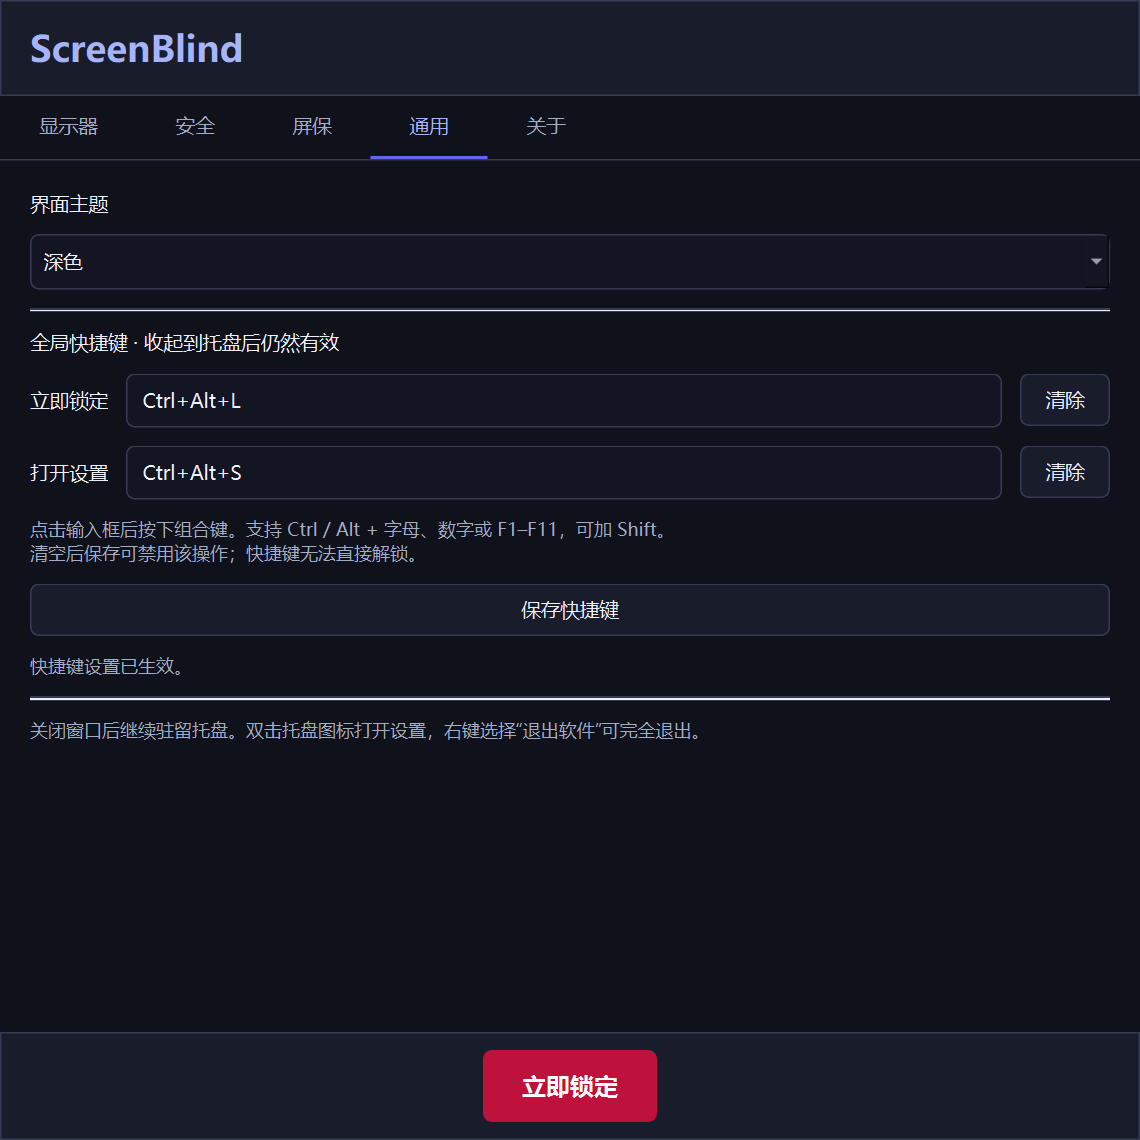
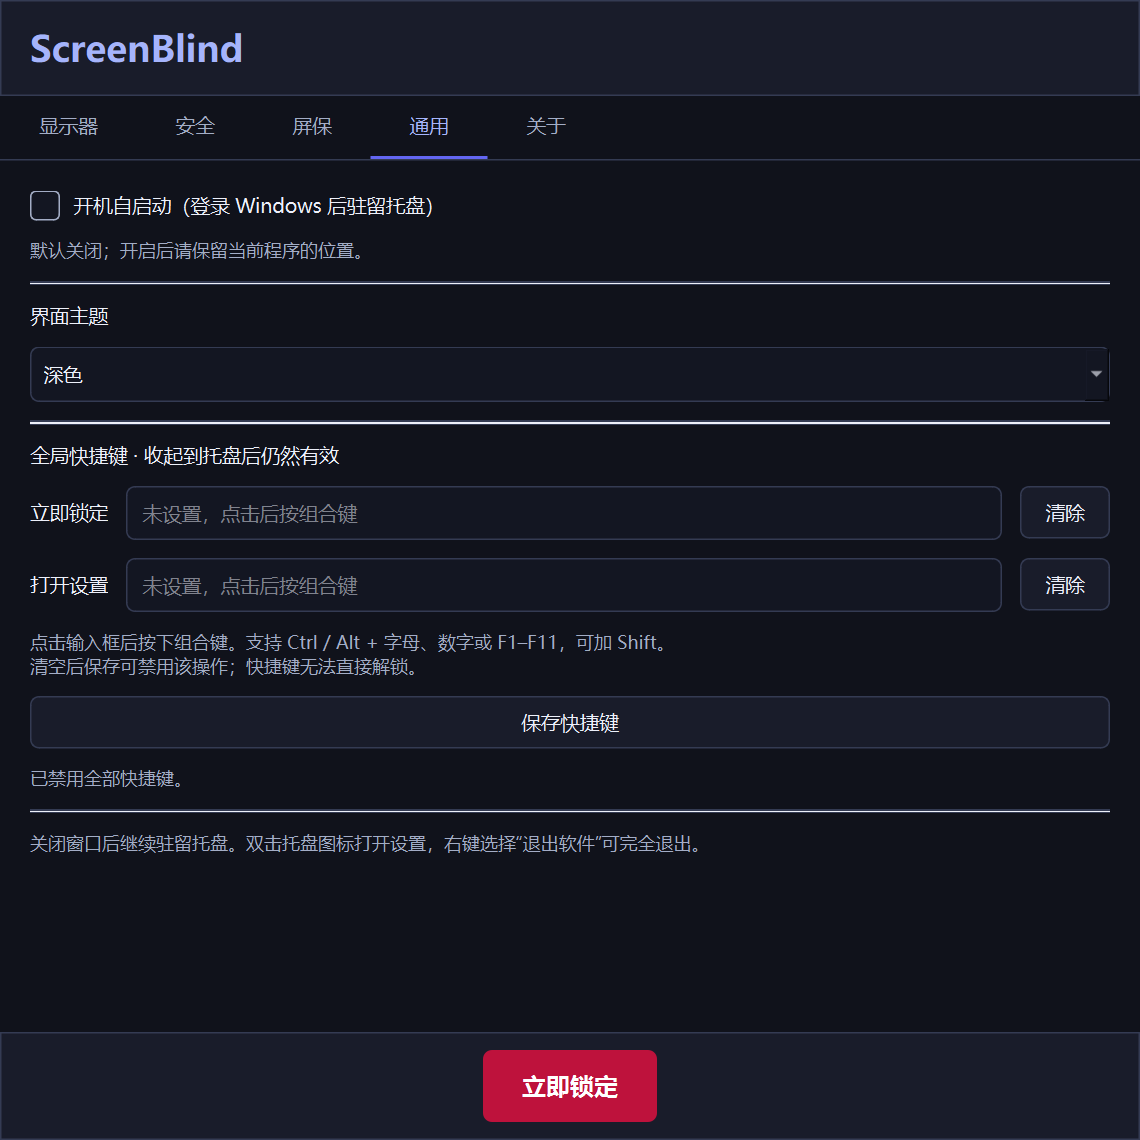
Add opt-in login startup, optional idle screensaver and empty default hotkeys

Changed region(s): [[0.0307, 0.1535, 0.9825, 0.5219], [0.0307, 0.5219, 0.9518, 0.7675]]

diff --git a/tests/test_desktop.py b/tests/test_desktop.py
@@ -4,6 +4,8 @@ import os
 from pathlib import Path
 import tempfile
 import unittest
+import uuid
+import winreg
 from unittest.mock import Mock, patch
 
 os.environ.setdefault('QT_QPA_PLATFORM', 'offscreen')
@@ -16,6 +18,7 @@ import blind
 import hotkeys
 import main
 import settings
+import startup
 from instance import InstanceGuard
 
 APP = QApplication.instance() or QApplication([])
@@ -81,6 +84,8 @@ class WindowTests(unittest.TestCase):
         self.env.start()
         self.hotkeys_patch = patch.object(main, 'GlobalHotkeys')
         self.hotkeys_patch.start()
+        self.startup_patch = patch.object(startup, 'is_enabled', return_value=False)
+        self.startup_patch.start()
         self.window = main.MainWindow()
 
     def tearDown(self):
@@ -89,6 +94,7 @@ class WindowTests(unittest.TestCase):
         self.window.deleteLater()
         APP.sendPostedEvents(None, QEvent.Type.DeferredDelete)
         self.hotkeys_patch.stop()
+        self.startup_patch.stop()
         self.env.stop()
         self.temp.cleanup()
 
@@ -98,6 +104,38 @@ class WindowTests(unittest.TestCase):
         self.assertFalse(self.window.isVisible())
         self.window._on_tray_activated(main.QSystemTrayIcon.ActivationReason.DoubleClick)
         self.assertTrue(self.window.isVisible())
+
+    def test_startup_and_hotkeys_are_disabled_by_default(self):
+        self.assertFalse(self.window._startup_cb.isChecked())
+        for edit in self.window._shortcut_edits.values():
+            self.assertTrue(edit.keySequence().isEmpty())
+        self.window._hotkeys.configure.assert_called_once_with({'lock': '', 'settings': ''})
+
+    def test_startup_toggle_and_failure_restore_checkbox(self):
+        with patch.object(startup, 'set_enabled') as write:
+            self.window._startup_cb.setChecked(True)
+            write.assert_called_once_with(True)
+        with patch.object(startup, 'set_enabled', side_effect=PermissionError), \
+             patch.object(main.QMessageBox, 'warning') as warning:
+            self.window._startup_cb.setChecked(False)
+            self.assertTrue(self.window._startup_cb.isChecked())
+            warning.assert_called_once()
+
+    def test_idle_screensaver_toggle_preserves_timeout_and_persists(self):
+        tab = self.window._screensaver_tab
+        tab._timeout_spin.setValue(300)
+        tab._idle_enabled.setChecked(False)
+        self.assertFalse(tab._timeout_spin.isEnabled())
+        self.assertFalse(settings.load()['screensaver_enabled'])
+        self.assertEqual(settings.load()['idle_timeout'], 300)
+        restored = main.ScreensaverTab(settings.load())
+        self.assertFalse(restored._idle_enabled.isChecked())
+        self.assertFalse(restored._timeout_spin.isEnabled())
+        tab._idle_enabled.setChecked(True)
+        self.assertTrue(tab._timeout_spin.isEnabled())
+        self.assertTrue(settings.load()['screensaver_enabled'])
+        self.assertEqual(settings.load()['idle_timeout'], 300)
+        restored.deleteLater()
 
     def test_theme_password_and_shortcut_changes_share_current_settings(self):
         w = self.window
@@ -165,6 +203,25 @@ class WindowTests(unittest.TestCase):
 
 
 class LockTests(unittest.TestCase):
+    def test_disabled_screensaver_never_arms_timer_or_hides_password(self):
+        state = blind.BlindState({'screensaver_enabled': False, 'idle_timeout': 10})
+        state.show_password_input()
+        state.start_idle_timer()
+        self.assertFalse(state._idle_timer.isActive())
+        state.on_mouse_move()
+        self.assertFalse(state._idle_timer.isActive())
+        state._on_idle()  # Even an already queued timeout must be harmless.
+        self.assertFalse(state.in_screensaver)
+        self.assertTrue(state.showing_password)
+        state.deleteLater()
+
+    def test_existing_settings_keep_idle_screensaver_enabled(self):
+        state = blind.BlindState({'idle_timeout': 120})
+        state.start_idle_timer()
+        self.assertTrue(state._idle_timer.isActive())
+        self.assertEqual(state._idle_timer.interval(), 120000)
+        state.deleteLater()
+
     def test_wrong_password_stays_locked_correct_password_unlocks(self):
         state = blind.BlindState({'password_hash': auth.hash_password('test-only')})
         unlocked = Mock()
@@ -204,6 +261,32 @@ class InstanceTests(unittest.TestCase):
             third = InstanceGuard(Path(folder))
             self.assertTrue(third.acquire())
             third.close()
+
+
+class StartupTests(unittest.TestCase):
+    def test_enable_disable_in_isolated_registry_key(self):
+        # Exercise the real registry API without modifying the user's Run key.
+        key_path = r'Software\ScreenBlind-Test-' + uuid.uuid4().hex
+        with patch.object(startup, 'RUN_KEY', key_path):
+            try:
+                self.assertFalse(startup.is_enabled())
+                startup.set_enabled(True)
+                self.assertTrue(startup.is_enabled())
+                with winreg.OpenKey(winreg.HKEY_CURRENT_USER, key_path) as key:
+                    command, value_type = winreg.QueryValueEx(key, startup.VALUE_NAME)
+                self.assertEqual(value_type, winreg.REG_SZ)
+                self.assertEqual(command, startup.startup_command())
+                self.assertTrue(command.endswith(' --startup'))
+                startup.set_enabled(False)
+                self.assertFalse(startup.is_enabled())
+                startup.set_enabled(False)  # Already disabled is harmless.
+            finally:
+                winreg.DeleteKey(winreg.HKEY_CURRENT_USER, key_path)
+
+    def test_packaged_command_quotes_executable_with_spaces(self):
+        with patch.object(startup.sys, 'frozen', True, create=True), \
+             patch.object(startup.sys, 'executable', r'C:\My Apps\ScreenBlind.exe'):
+            self.assertEqual(startup.startup_command(), '"C:\\My Apps\\ScreenBlind.exe" --startup')
 
 
 if __name__ == '__main__':

diff --git a/main.py b/main.py
@@ -47,6 +47,7 @@ from PyQt6.QtWidgets import (
 import auth
 import dpi
 import settings as cfg_mod
+import startup
 from blind import BlindManager
 from hotkeys import GlobalHotkeys
 from themes import apply_theme
@@ -390,6 +391,9 @@ class ScreensaverTab(QWidget):
         layout.setContentsMargins(16, 16, 16, 16)
 
         # Idle timeout
+        self._idle_enabled = QCheckBox("空闲后自动启动屏保")
+        self._idle_enabled.setChecked(cfg.get("screensaver_enabled", True))
+        layout.addWidget(self._idle_enabled)
         layout.addWidget(_label("空闲多久后启动屏保："))
         row1 = QHBoxLayout()
         self._timeout_spin = QSpinBox()
@@ -397,6 +401,8 @@ class ScreensaverTab(QWidget):
         self._timeout_spin.setValue(cfg.get("idle_timeout", 120))
         self._timeout_spin.setSuffix("  秒")
         self._timeout_spin.setFixedWidth(160)
+        self._timeout_spin.setEnabled(self._idle_enabled.isChecked())
+        self._idle_enabled.toggled.connect(self._save_idle_enabled)
         self._timeout_spin.valueChanged.connect(self._save_timeout)
         row1.addWidget(self._timeout_spin)
         row1.addStretch()
@@ -441,6 +447,11 @@ class ScreensaverTab(QWidget):
 
         layout.addStretch()
 
+    def _save_idle_enabled(self, enabled: bool):
+        self._cfg["screensaver_enabled"] = enabled
+        self._timeout_spin.setEnabled(enabled)
+        cfg_mod.save(self._cfg)
+
     def _save_timeout(self, val: int):
         self._cfg["idle_timeout"] = val
         cfg_mod.save(self._cfg)
@@ -466,7 +477,7 @@ class ScreensaverTab(QWidget):
 # About tab
 # ---------------------------------------------------------------------------
 
-APP_VERSION = "1.2.0"
+APP_VERSION = "1.3.0"
 WEBSITE_URL = "https://screenblind.cc"
 DONATE_URL  = "https://www.paypal.com/donate/?hosted_button_id=ZXKFFGA7W6Y5E"
 
@@ -757,6 +768,18 @@ class MainWindow(QMainWindow):
         layout = QVBoxLayout(tab)
         layout.setContentsMargins(20, 20, 20, 20)
         layout.setSpacing(12)
+        self._startup_cb = QCheckBox("开机自启动（登录 Windows 后驻留托盘）")
+        self._startup_status = _label("默认关闭；开启后请保留当前程序的位置。", secondary=True)
+        self._startup_status.setWordWrap(True)
+        try:
+            self._startup_cb.setChecked(startup.is_enabled())
+        except OSError:
+            self._startup_cb.setEnabled(False)
+            self._startup_status.setText("无法读取开机自启动设置，请检查当前用户的注册表访问权限。")
+        self._startup_cb.toggled.connect(self._change_startup)
+        layout.addWidget(self._startup_cb)
+        layout.addWidget(self._startup_status)
+        layout.addWidget(_sep())
         layout.addWidget(_label("界面主题"))
         self._theme_combo = QComboBox()
         self._theme_combo.addItem("深色", "dark")
@@ -773,6 +796,9 @@ class MainWindow(QMainWindow):
             row.addWidget(_label(label))
             edit = QKeySequenceEdit(QKeySequence(self._cfg[key]))
             edit.setAccessibleName(label + "快捷键")
+            line_edit = edit.findChild(QLineEdit)
+            if line_edit:
+                line_edit.setPlaceholderText("未设置，点击后按组合键")
             row.addWidget(edit, 1)
             clear = QPushButton("清除")
             clear.clicked.connect(edit.clear)
@@ -794,6 +820,17 @@ class MainWindow(QMainWindow):
         layout.addWidget(note)
         layout.addStretch()
         return tab
+
+    def _change_startup(self, enabled):
+        try:
+            startup.set_enabled(enabled)
+        except OSError:
+            self._startup_cb.blockSignals(True)
+            self._startup_cb.setChecked(not enabled)
+            self._startup_cb.blockSignals(False)
+            QMessageBox.warning(self, "设置失败", "无法更新开机自启动设置，请检查当前用户的注册表访问权限。")
+            return
+        self._startup_status.setText("已开启：下次登录 Windows 后将自动驻留托盘。" if enabled else "已关闭开机自启动。")
 
     def _change_theme(self):
         theme = self._theme_combo.currentData()
@@ -864,7 +901,8 @@ def main():
     win = MainWindow()
 
     guard.activated.connect(win.show_normal)
-    win.show()
+    if "--startup" not in sys.argv:
+        win.show()
     sys.exit(app.exec())
 
 

diff --git a/startup.py b/startup.py
@@ -1,0 +1,37 @@
+"""Current-user login startup; no administrator privileges required."""
+from pathlib import Path
+import subprocess
+import sys
+import winreg
+
+RUN_KEY = r'Software\Microsoft\Windows\CurrentVersion\Run'
+VALUE_NAME = 'ScreenBlind'
+
+
+def startup_command() -> str:
+    args = [sys.executable]
+    if not getattr(sys, 'frozen', False):
+        args.append(str(Path(__file__).resolve().with_name('main.py')))
+    args.append('--startup')
+    return subprocess.list2cmdline(args)
+
+
+def is_enabled() -> bool:
+    try:
+        with winreg.OpenKey(winreg.HKEY_CURRENT_USER, RUN_KEY) as key:
+            value, _ = winreg.QueryValueEx(key, VALUE_NAME)
+            return bool(value)
+    except FileNotFoundError:
+        return False
+
+
+def set_enabled(enabled: bool) -> None:
+    if enabled:
+        with winreg.CreateKeyEx(winreg.HKEY_CURRENT_USER, RUN_KEY, 0, winreg.KEY_SET_VALUE) as key:
+            winreg.SetValueEx(key, VALUE_NAME, 0, winreg.REG_SZ, startup_command())
+    else:
+        try:
+            with winreg.OpenKey(winreg.HKEY_CURRENT_USER, RUN_KEY, 0, winreg.KEY_SET_VALUE) as key:
+                winreg.DeleteValue(key, VALUE_NAME)
+        except FileNotFoundError:
+            pass

diff --git a/blind.py b/blind.py
@@ -219,6 +219,9 @@ class BlindState(QObject):
     # -- idle / screensaver --------------------------------------------------
 
     def start_idle_timer(self):
+        if not self._cfg.get("screensaver_enabled", True):
+            self._idle_timer.stop()
+            return
         ms = max(10, self._cfg.get("idle_timeout", 120)) * 1000
         self._idle_timer.start(ms)
 
@@ -237,6 +240,8 @@ class BlindState(QObject):
             self.updated.emit()
 
     def _on_idle(self):
+        if not self._cfg.get("screensaver_enabled", True):
+            return
         self.in_screensaver = True
         self.cursor_hidden = True
         # Silently dismiss any open password prompt

diff --git a/settings.py b/settings.py
@@ -4,11 +4,12 @@ from pathlib import Path
 
 DEFAULTS: dict = {
     "theme": "dark",
-    "lock_hotkey": "Ctrl+Alt+L",
-    "settings_hotkey": "Ctrl+Alt+S",
+    "lock_hotkey": "",
+    "settings_hotkey": "",
     "password_hash": "",
     "locked_screens": [],
     "idle_timeout": 120,          # seconds before screensaver starts
+    "screensaver_enabled": True,
     # "bubbles" | "matrix" | "flurry" | "slideshow" | "none"
     "screensaver_type": "bubbles",
     "slideshow_folder": "",

diff --git a/README.md b/README.md
@@ -5,7 +5,9 @@
 ## 本分支新增
 
 - **托盘驻留**：关闭设置窗口后继续运行；双击托盘图标恢复窗口，右键菜单支持打开设置、立即锁定、退出软件。
-- **全局快捷键**：默认 `Ctrl+Alt+L` 立即锁定、`Ctrl+Alt+S` 打开设置，窗口收起后仍有效。在“通用”页修改或清空并保存；按键占用时会提示，保留原有有效快捷键。
+- **全局快捷键**：默认全部为空，由用户自行设置，窗口收起后仍有效。在“通用”页修改或清空并保存；按键占用时会提示，保留原有有效快捷键。
+- **开机自启动**：在“通用”页开启或关闭，默认关闭；开启后在登录 Windows 时驻留托盘，不弹出设置窗口。开启后请保留程序的位置。
+- **空闲屏保开关**：在“屏保”页取消“空闲后自动启动屏保”可关闭，原有等待时长会保留。该功能仅控制锁屏后的屏保动画，不会自动锁定电脑。
 - **简体中文**：设置页、托盘、提示框、屏保选项与锁屏提示均为中文。
 - **浅色 / 深色主题**：在“通用”页即时切换并自动保存。锁屏与屏保保留深色背景，避免遮挡时突然亮屏。
 - **单实例运行**：再次双击程序会唤回已有窗口，避免重复托盘图标及快捷键冲突。锁定期间不会打开设置或重复锁定。
@@ -19,13 +21,13 @@
 1. 双击 `ScreenBlind.exe`。
 2. 在“显示器”页勾选需要锁定的显示器，可用“识别显示器”查看编号。
 3. 在“安全”页设置密码。
-4. 点击“立即锁定”，或按 `Ctrl+Alt+L`。
+4. 点击“立即锁定”，或使用自行配置的全局快捷键。
 5. 按任意键 / 点击锁屏，输入密码后按 Enter 解锁，Esc 取消输入。
 6. 关闭设置窗口可收起到托盘。需要完全退出时，右键托盘图标选择“退出软件”。
 
 全局快捷键支持 Ctrl 或 Alt 配合字母、数字、F1–F11，可叠加 Shift。不使用 Windows 键或 F12。快捷键只负责锁定和打开设置，**不能绕过密码解锁**。
 
-配置保存在 `%APPDATA%\ScreenBlind\settings.json`，主题与快捷键会自动恢复，原版设置可以沿用。密码仅以 PBKDF2-SHA256 哈希保存在本地。首次快捷键注册失败时，可通过托盘打开“通用”页修改。
+配置保存在 `%APPDATA%\ScreenBlind\settings.json`，主题与快捷键会自动恢复，原版设置可以沿用。密码仅以 PBKDF2-SHA256 哈希保存在本地。首次快捷键注册失败时，可通过托盘打开“通用”页修改。升级会保留之前已经保存的快捷键；如需禁用，可清空后保存。开机自启动使用当前用户的 Windows Run 配置，无需管理员权限。
 
 ## 开发运行与打包
 
